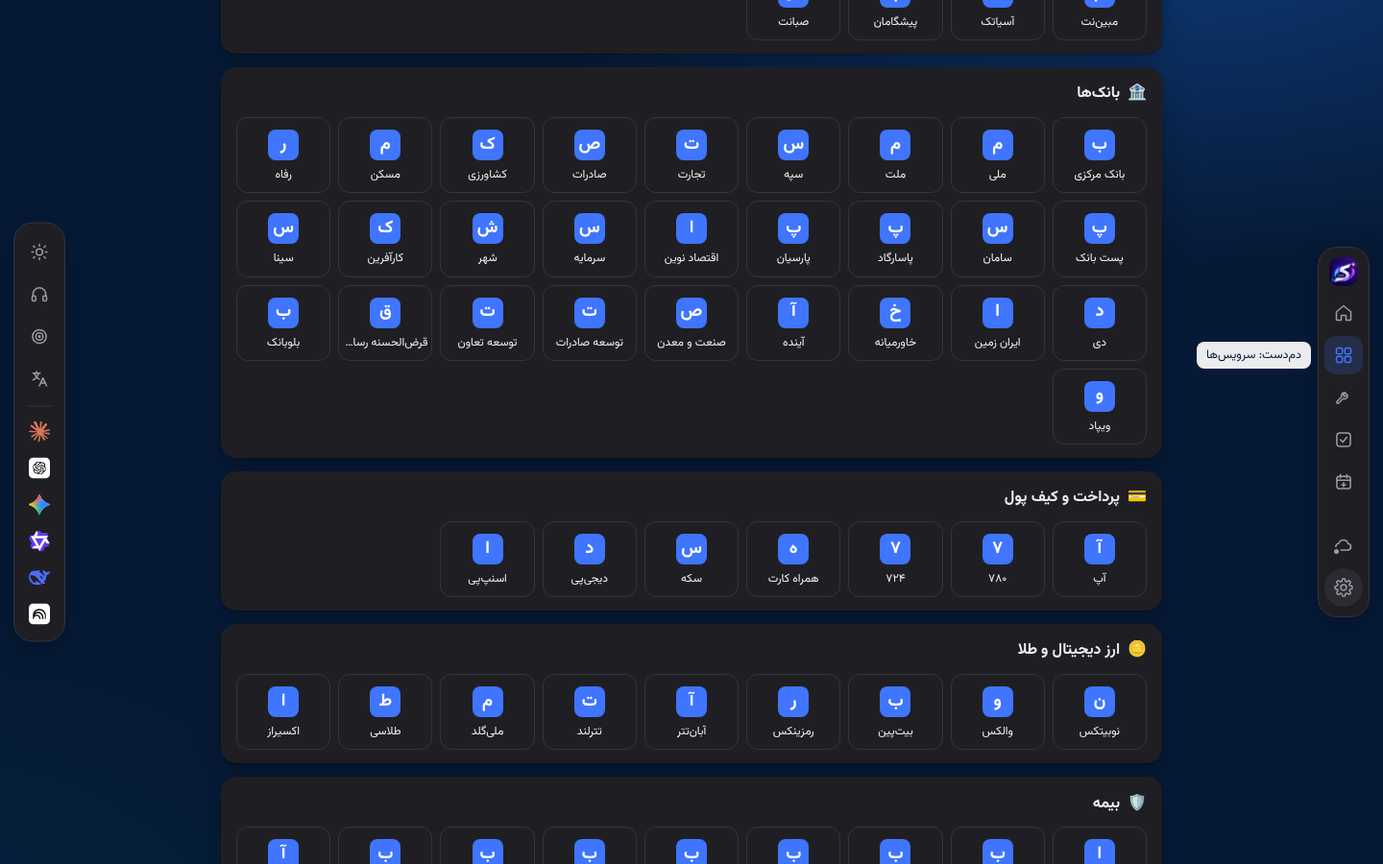
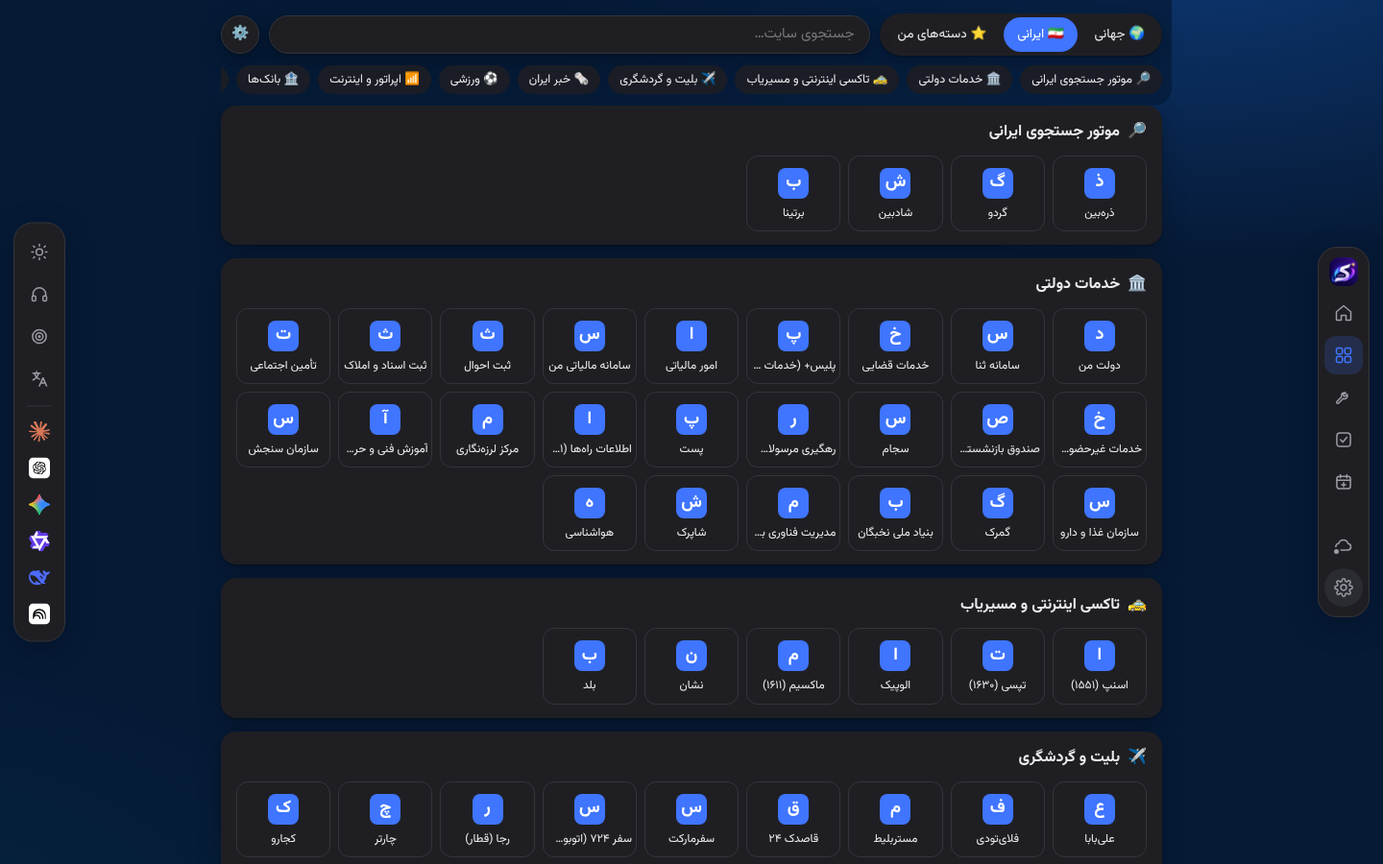
v2.14.1: tidy the Services page with tabs and search
Global / Iranian / My categories tabs, a site search across all of them,
the manage button as an icon, and one scrolling row of category chips in
a sticky, blurred header.

Claude-Session: https://claude.ai/code/session_01DpxMfDwJZ8eqR5twdjN4Bo

diff --git a/js/i18n.js b/js/i18n.js
@@ -4,6 +4,7 @@
 	"use strict";
 	const D = {};
 	D.fa = {
+		svcWorld: "جهانی", svcIran: "ایرانی", svcMine: "دستههای من", svcSearch: "جستجوی سایت…", svcNoMatch: "سایتی پیدا نشد.", svcMineEmpty: "هنوز دستهای نساختهاید. یک دسته بسازید و سایتهای دلخواهتان را در آن بگذارید.",
 		svcManage: "مدیریت دستهها", svcManageHint: "دستههایی را که لازم ندارید خاموش کنید یا دستهی خودتان را بسازید و سایتهای دلخواهتان را در آن بگذارید.", svcNew: "دستهی جدید", svcNewName: "نام دسته، مثلاً سایتهای کاری", svcCats: "دستهها", svcHide: "خاموش کردن این دسته", svcHidden: "دستهی «{name}» خاموش شد. از ⚙ مدیریت دستهها روشنش کنید.", svcDeleted: "دستهی «{name}» حذف شد.", svcAddSite: "افزودن سایت", svcSiteName: "نام سایت", svcBadUrl: "نشانی سایت درست نیست.", svcEmpty: "هنوز سایتی اضافه نشده. با «افزودن سایت» شروع کنید.", salatRemind: "یادآور نماز", salatRemindHint: "وقتی وقت نماز باز است، کارتی کنار صفحه نشان میدهد چقدر تا پایان وقت مانده. شهر را در باکس آبوهوا انتخاب کنید.", salatFajr: "صبح", salatAsr: "ظهر و عصر", salatIsha: "مغرب و عشا", salatWhen: "کی نشان بده", salatAll: "از اول وقت", salat60: "یک ساعت مانده به پایان", salat30: "۳۰ دقیقه مانده به پایان", salat15: "۱۵ دقیقه مانده به پایان", salatNote: "پایان وقت: صبح تا طلوع آفتاب، ظهر و عصر تا غروب، مغرب و عشا تا نیمهشب شرعی. اوقات با روش مؤسسهی ژئوفیزیک دانشگاه تهران حساب میشود.", salatFajrT: "نماز صبح", salatAsrT: "نماز ظهر و عصر", salatIshaT: "نماز مغرب و عشا", salatLeft: "تا پایان وقت:", salatEnds: "{what} ساعت {at}", salatNeedCity: "برای یادآور نماز، اول شهرتان را در باکس آبوهوا وارد کنید.",
 		boxHide: "خاموش کردن این باکس", boxHidden: "«{name}» خاموش شد. از 🧩 باکسها و قابلیتها دوباره روشنش کنید.", manageTitle: "باکسها و قابلیتها", manageHint: "هر چیزی را که لازم ندارید خاموش کنید و هر وقت خواستید دوباره روشن کنید. اطلاعاتتان پاک نمیشود.", manageBoxes: "باکسها", manageRail: "دکمههای نوار کناری", manageFeatures: "قابلیتهای دیگر", manageAllOn: "روشن کردن همه", manageAi: "میانبرهای هوش مصنوعی", boxAlphaNoWall: "این تنظیم وقتی دیده میشود که عکس یا ویدئوی پسزمینه گذاشته باشید.", tourBoxT: "روشن و خاموش کردن باکسها", tourBox: "ماوس را روی هر باکس ببرید و ✕ گوشهاش را بزنید تا خاموش شود. برای روشن کردن دوباره، دکمهی 🧩 «باکسها و قابلیتها» بالای صفحهی ابزارها یا تنظیمات › عمومی را باز کنید. دکمههای نوار کناری و یادآورها را هم همانجا روشن و خاموش کنید.",
 		wGoals: "اهداف بلندمدت", goalTitlePh: "هدف، مثلاً خواندن کتاب", goalTarget: "مقدار (مثلاً ۱۲)", goalUnit: "واحد (کتاب، کیلومتر…)", goalBy: "تا تاریخ", goalReached: "🎉 به هدف رسیدید!", goalOver: "زمان تمام شد؛ {n} مانده بود.", goalPerDay: "روزی {n} لازم است.", goalPerWeek: "هفتهای {n} لازم است.", goalOnTrack: "✅ با همین سرعت به {n} میرسید.", goalBehind: "⚠ با این سرعت به {n} میرسید.", goalAdd: "مقدار پیشرفت", goalDeleted: "هدف حذف شد", goalToday: "امروز", goalUntil: "تا {d}", goalEmpty: "هنوز هدفی نگذاشتهاید. مثلاً «۱۲ کتاب امسال» یا «۵۰۰ کیلومتر دویدن».", goalBadDate: "تاریخ پایان باید بعد از امروز باشد.", wJournal: "دفتر شکرگزاری", jReview: "مرور ماه", jPrompt: "امروز برای چه سه چیزی شکرگزارید؟", jLine1: "۱. …", jLine2: "۲. …", jLine3: "۳. …", jSavedToday: "امروز نوشته شد ✓", jStreak: "🔥 {n} روز پشتسرهم", jSaved: "ذخیره شد 🙏", jMonthCount: "{n} روز نوشتهاید، {lines} مورد خوب.", jEmpty: "این ماه چیزی ننوشتهاید.", jNudgeTitle: "سه چیز خوب امروز؟", jWrite: "نوشتن", wWorldClock: "ساعت جهانی", wcPh: "شهر یا منطقهی زمانی، مثلاً Tokyo", wcSame: "همزمان با شما", wcHours: "ساعت", wcTomorrow: "فردا", wcYesterday: "دیروز", wcNotFound: "این شهر پیدا نشد. نام انگلیسی شهر را امتحان کنید.", wcHave: "این شهر از قبل هست.", wFootball: "فوتبال", fbPh: "نام تیم، مثلاً Persepolis", fbHint: "نتیجهی آخرین بازیها و بازیهای بعدی، از TheSportsDB. نتیجهی زنده نیست.", fbEmpty: "تیمهای محبوبتان را اضافه کنید:", fbNext: "بازی بعدی", fbLast: "بازیهای اخیر", fbNone: "فعلاً اطلاعاتی نیست.", fbNotFound: "تیمی پیدا نشد. نام انگلیسی تیم را بنویسید.", wTrip: "شمارش معکوس", tripEdit: "شمارش معکوس", tripTitle: "برای چه؟", tripTitlePh: "مثلاً سفر ایران، پایان ترم", tripDate: "تاریخ", tripPhoto: "عکس (اختیاری)", tripPhotoRm: "حذف عکس", tripHint: "عکس فقط روی همین دستگاه میماند.", tripAddCta: "شمارش معکوس برای سفر، پایان ترم، پایان سال و …", tripToday: "امروز است! 🎉", tripDay: "روز", tripDays: "روز", tripTo: "تا {title}", tripPhotoOk: "عکس انتخاب شد", tripDeleted: "شمارش معکوس حذف شد", tripInDays: "{n} روز دیگر", cdYearEndFa: "پایان سال", cdSeasonEnd: "پایان این فصل", cdSummerEnd: "پایان تابستان", cdMonthEnd: "پایان ماه", cdYearEndEn: "پایان سال میلادی", cdWeekEnd: "آخر هفته", cdTermEnd: "پایان ترم", cdTrip: "سفر", trTitle: "مترجم سریع", trSwap: "جابهجا کردن زبانها", trPh: "متن را بنویسید یا بچسبانید…", trKeyHint: "میانبر: Alt+T یا L", trOpenGoogle: "Google Translate", trGo: "ترجمه", trAuto: "تشخیص خودکار", trFail: "ترجمه انجام نشد. اینترنت را بررسی کنید.", kbTranslate: "مترجم سریع", shTitle: "تقویم خانوادگی", shShort: "اشتراک", shIntro: "تولدها و رویدادها را با خانواده یا همخانهها به اشتراک بگذارید: یک کد یا فایل بسازید و برایشان بفرستید. آنها در کامیار خودشان واردش میکنند.", shSend: "فرستادن", shAll: "انتخاب همه / هیچ", shCopyCode: "کپی کد", shSaveFile: "ذخیرهی فایل", shReceive: "دریافت", shCodePh: "کدی را که برایتان فرستادهاند اینجا بچسبانید", shImport: "افزودن به تقویم من", shOpen: "باز کردن", shNothing: "هنوز تولد یا رویدادی ندارید.", shPickSome: "چند مورد را انتخاب کنید.", shCopied: "کد {n} مورد کپی شد. آن را در پیامرسان بفرستید.", shImported: "{n} مورد اضافه شد.", shSkipped: "{n} مورد تکراری بود.", shFrom: "از طرف {name}", shBad: "این کد یا فایل معتبر نیست.", seasonal: "پوستهی مناسبتی", seasonalHint: "در نوروز، یلدا، چهارشنبهسوری، محرم و کریسمس ظاهر صفحه خودش کمی عوض میشود.", seTasua: "تاسوعای حسینی", seAshura: "عاشورای حسینی", seMuharram: "ماه محرم", seNowruzSoon: "نوروز در راه است", seSizdah: "سیزدهبدر", seNowruz: "نوروزتان پیروز", seYalda: "شب یلدا مبارک", seSuri: "چهارشنبهسوری", seXmas: "کریسمس مبارک", seNewYear: "سال نو میلادی مبارک", smartBm: "میانبرهای هوشمند", smartBmHint: "میانبرهایی که در این ساعت از روز بیشتر باز میکنید جلوتر میآیند (صبح ایمیل، شب یوتیوب…). برای چیدن دستی خاموشش کنید.", aqTitle: "کیفیت هوا", aqGood: "پاک", aqModerate: "قابل قبول", aqSensitive: "ناسالم برای گروههای حساس", aqUnhealthy: "ناسالم", aqVeryUnhealthy: "بسیار ناسالم", aqHazardous: "خطرناک", aqAdvice: "فعالیت بیرون را کم کنید", aqWarn: "⚠ هوای {city} امروز {level} است (AQI {n}).",
@@ -51,6 +52,7 @@
 		h_newyear: "سال نو میلادی", h_christmas: "کریسمس"
 	};
 	D.en = {
+		svcWorld: "Global", svcIran: "Iranian", svcMine: "My categories", svcSearch: "Search sites…", svcNoMatch: "No sites found.", svcMineEmpty: "You haven't made a category yet. Make one and put your favourite sites in it.",
 		svcManage: "Manage categories", svcManageHint: "Turn off categories you don't need, or make your own and put your favourite sites in it.", svcNew: "New category", svcNewName: "Category name, e.g. Work sites", svcCats: "Categories", svcHide: "Hide this category", svcHidden: "“{name}” is hidden. Turn it back on from ⚙ Manage categories.", svcDeleted: "“{name}” was deleted.", svcAddSite: "Add a site", svcSiteName: "Site name", svcBadUrl: "That address doesn't look right.", svcEmpty: "No sites yet. Start with “Add a site”.", salatRemind: "Prayer reminder", salatRemindHint: "While a prayer time is open, a card at the page edge shows how long is left. Pick your city in the weather box.", salatFajr: "Morning (Fajr)", salatAsr: "Noon & afternoon", salatIsha: "Evening & night", salatWhen: "Show it", salatAll: "From the start", salat60: "1 hour before the end", salat30: "30 minutes before the end", salat15: "15 minutes before the end", salatNote: "Ends: morning at sunrise, noon & afternoon at sunset, evening & night at the religious midnight. Times use the University of Tehran Geophysics method.", salatFajrT: "Morning prayer", salatAsrT: "Noon & afternoon prayer", salatIshaT: "Evening & night prayer", salatLeft: "Time left:", salatEnds: "{what} at {at}", salatNeedCity: "For the prayer reminder, first enter your city in the weather box.",
 		boxHide: "Hide this box", boxHidden: "“{name}” is hidden. Turn it back on from 🧩 Boxes & features.", manageTitle: "Boxes & features", manageHint: "Turn off anything you don't need and turn it back on whenever you like. Nothing is deleted.", manageBoxes: "Boxes", manageRail: "Side bar buttons", manageFeatures: "Other features", manageAllOn: "Turn everything on", manageAi: "AI shortcuts", boxAlphaNoWall: "You'll see the effect once a background picture or video is set.", tourBoxT: "Hide and show boxes", tourBox: "Point at any box and click the ✕ in its corner to hide it. To bring it back, open 🧩 Boxes & features at the top of the Tools page or in Settings › General. Side bar buttons and reminders are switched on and off there too.",
 		wGoals: "Long-term goals", goalTitlePh: "Goal, e.g. Read books", goalTarget: "Amount (e.g. 12)", goalUnit: "Unit (books, km…)", goalBy: "By", goalReached: "🎉 Goal reached!", goalOver: "Time's up; {n} was left.", goalPerDay: "You need {n} a day.", goalPerWeek: "You need {n} a week.", goalOnTrack: "✅ At this pace you'll reach {n}.", goalBehind: "⚠ At this pace you'll reach {n}.", goalAdd: "Progress amount", goalDeleted: "Goal deleted", goalToday: "Today", goalUntil: "until {d}", goalEmpty: "No goals yet. Try \"12 books this year\" or \"500 km running\".", goalBadDate: "The end date must be after today.", wJournal: "Gratitude journal", jReview: "Month review", jPrompt: "What are three things you're grateful for today?", jLine1: "1. …", jLine2: "2. …", jLine3: "3. …", jSavedToday: "Written today ✓", jStreak: "🔥 {n} days in a row", jSaved: "Saved 🙏", jMonthCount: "You wrote on {n} days, {lines} good things.", jEmpty: "Nothing written this month.", jNudgeTitle: "Three good things today?", jWrite: "Write", wWorldClock: "World clock", wcPh: "City or time zone, e.g. Tokyo", wcSame: "Same time as you", wcHours: "h", wcTomorrow: "tomorrow", wcYesterday: "yesterday", wcNotFound: "City not found. Try its English name.", wcHave: "That city is already there.", wFootball: "Football", fbPh: "Team name, e.g. Real Madrid", fbHint: "Latest results and upcoming matches from TheSportsDB. Not live scores.", fbEmpty: "Add your favourite teams:", fbNext: "Next match", fbLast: "Recent matches", fbNone: "No information right now.", fbNotFound: "No team found. Try the English name.", wTrip: "Countdown", tripEdit: "Countdown", tripTitle: "Counting down to", tripTitlePh: "e.g. Trip to Iran, end of term", tripDate: "Date", tripPhoto: "Photo (optional)", tripPhotoRm: "Remove photo", tripHint: "The photo stays on this device only.", tripAddCta: "Count down to a trip, the end of term, the end of the year…", tripToday: "It's today! 🎉", tripDay: "day", tripDays: "days", tripTo: "to {title}", tripPhotoOk: "Photo chosen", tripDeleted: "Countdown deleted", tripInDays: "in {n} days", cdYearEndFa: "End of the Persian year", cdSeasonEnd: "End of this season", cdSummerEnd: "End of summer", cdMonthEnd: "End of the month", cdYearEndEn: "End of the year", cdWeekEnd: "Weekend", cdTermEnd: "End of term", cdTrip: "Trip", trTitle: "Quick translator", trSwap: "Swap languages", trPh: "Type or paste text…", trKeyHint: "Shortcut: Alt+T or L", trOpenGoogle: "Google Translate", trGo: "Translate", trAuto: "Detect language", trFail: "Couldn't translate. Is the internet working?", kbTranslate: "Quick translator", shTitle: "Family calendar", shShort: "Share", shIntro: "Share birthdays and events with family or housemates: make a code or a file and send it. They add it in their own Kamyar.", shSend: "Send", shAll: "Select all / none", shCopyCode: "Copy code", shSaveFile: "Save file", shReceive: "Receive", shCodePh: "Paste the code you were sent here", shImport: "Add to my calendar", shOpen: "Open", shNothing: "You have no birthdays or events yet.", shPickSome: "Pick a few items.", shCopied: "Code for {n} items copied. Send it in any messenger.", shImported: "{n} items added.", shSkipped: "{n} were already there.", shFrom: "from {name}", shBad: "That code or file isn't valid.", seasonal: "Occasion looks", seasonalHint: "The page changes a little by itself for Nowruz, Yalda, Chaharshanbe Suri, Muharram and Christmas.", seTasua: "Tasua", seAshura: "Ashura", seMuharram: "Month of Muharram", seNowruzSoon: "Nowruz is coming", seSizdah: "Sizdah Bedar", seNowruz: "Happy Nowruz", seYalda: "Happy Yalda night", seSuri: "Chaharshanbe Suri", seXmas: "Merry Christmas", seNewYear: "Happy New Year", smartBm: "Smart shortcuts", smartBmHint: "Shortcuts you open most at this time of day move to the front (email in the morning, YouTube at night…). Turn off to arrange by hand.", aqTitle: "Air quality", aqGood: "Good", aqModerate: "Moderate", aqSensitive: "Unhealthy for sensitive groups", aqUnhealthy: "Unhealthy", aqVeryUnhealthy: "Very unhealthy", aqHazardous: "Hazardous", aqAdvice: "limit time outdoors", aqWarn: "⚠ Air in {city} is {level} today (AQI {n}).",
@@ -98,6 +100,7 @@
 		h_newyear: "New Year's Day", h_christmas: "Christmas"
 	};
 	D.fr = {
+		svcWorld: "International", svcIran: "Iraniens", svcMine: "Mes catégories", svcSearch: "Rechercher un site…", svcNoMatch: "Aucun site trouvé.", svcMineEmpty: "Vous n'avez pas encore de catégorie. Créez-en une pour vos sites préférés.",
 		svcManage: "Gérer les catégories", svcManageHint: "Désactivez les catégories inutiles ou créez la vôtre avec vos sites préférés.", svcNew: "Nouvelle catégorie", svcNewName: "Nom, ex. Sites de travail", svcCats: "Catégories", svcHide: "Masquer cette catégorie", svcHidden: "« {name} » est masquée. Réactivez-la via ⚙ Gérer les catégories.", svcDeleted: "« {name} » a été supprimée.", svcAddSite: "Ajouter un site", svcSiteName: "Nom du site", svcBadUrl: "Cette adresse semble incorrecte.", svcEmpty: "Aucun site pour l'instant. Commencez par « Ajouter un site ».", salatRemind: "Rappel de prière", salatRemindHint: "Pendant l'heure d'une prière, une carte au bord de la page indique le temps restant. Choisissez votre ville dans le bloc météo.", salatFajr: "Matin (Fajr)", salatAsr: "Midi et après-midi", salatIsha: "Soir et nuit", salatWhen: "Afficher", salatAll: "Dès le début", salat60: "1 h avant la fin", salat30: "30 min avant la fin", salat15: "15 min avant la fin", salatNote: "Fin : matin au lever du soleil, midi et après-midi au coucher, soir et nuit à minuit religieux. Méthode de l'Institut de géophysique de Téhéran.", salatFajrT: "Prière du matin", salatAsrT: "Prière de midi et de l'après-midi", salatIshaT: "Prière du soir et de la nuit", salatLeft: "Temps restant :", salatEnds: "{what} à {at}", salatNeedCity: "Pour le rappel de prière, indiquez d'abord votre ville dans le bloc météo.",
 		boxHide: "Masquer ce bloc", boxHidden: "« {name} » est masqué. Réactivez-le depuis 🧩 Blocs et fonctions.", manageTitle: "Blocs et fonctions", manageHint: "Désactivez ce dont vous n'avez pas besoin et réactivez-le quand vous voulez. Rien n'est effacé.", manageBoxes: "Blocs", manageRail: "Boutons de la barre latérale", manageFeatures: "Autres fonctions", manageAllOn: "Tout activer", manageAi: "Raccourcis IA", boxAlphaNoWall: "L'effet se voit une fois une image ou une vidéo de fond choisie.", tourBoxT: "Masquer et afficher les blocs", tourBox: "Survolez un bloc et cliquez sur le ✕ dans son coin pour le masquer. Pour le réafficher, ouvrez 🧩 Blocs et fonctions en haut de la page Outils ou dans Réglages › Général. Les boutons de la barre latérale et les rappels s'y règlent aussi.",
 		wGoals: "Objectifs à long terme", goalTitlePh: "Objectif, ex. Lire des livres", goalTarget: "Quantité (ex. 12)", goalUnit: "Unité (livres, km…)", goalBy: "Avant le", goalReached: "🎉 Objectif atteint !", goalOver: "Temps écoulé ; il restait {n}.", goalPerDay: "Il faut {n} par jour.", goalPerWeek: "Il faut {n} par semaine.", goalOnTrack: "✅ À ce rythme vous atteindrez {n}.", goalBehind: "⚠ À ce rythme vous atteindrez {n}.", goalAdd: "Progression", goalDeleted: "Objectif supprimé", goalToday: "Aujourd'hui", goalUntil: "jusqu'au {d}", goalEmpty: "Pas encore d'objectif. Essayez « 12 livres cette année » ou « 500 km de course ».", goalBadDate: "La date de fin doit être après aujourd'hui.", wJournal: "Journal de gratitude", jReview: "Bilan du mois", jPrompt: "Trois choses pour lesquelles vous êtes reconnaissant aujourd'hui ?", jLine1: "1. …", jLine2: "2. …", jLine3: "3. …", jSavedToday: "Écrit aujourd'hui ✓", jStreak: "🔥 {n} jours d'affilée", jSaved: "Enregistré 🙏", jMonthCount: "Vous avez écrit {n} jours, {lines} bonnes choses.", jEmpty: "Rien d'écrit ce mois-ci.", jNudgeTitle: "Trois bonnes choses aujourd'hui ?", jWrite: "Écrire", wWorldClock: "Horloge mondiale", wcPh: "Ville ou fuseau, ex. Tokyo", wcSame: "Même heure que vous", wcHours: "h", wcTomorrow: "demain", wcYesterday: "hier", wcNotFound: "Ville introuvable. Essayez le nom anglais.", wcHave: "Cette ville est déjà là.", wFootball: "Football", fbPh: "Nom de l'équipe, ex. Real Madrid", fbHint: "Derniers résultats et prochains matchs via TheSportsDB. Pas de score en direct.", fbEmpty: "Ajoutez vos équipes préférées :", fbNext: "Prochain match", fbLast: "Matchs récents", fbNone: "Pas d'information pour l'instant.", fbNotFound: "Aucune équipe trouvée. Essayez le nom anglais.", wTrip: "Compte à rebours", tripEdit: "Compte à rebours", tripTitle: "Jusqu'à", tripTitlePh: "ex. Voyage en Iran, fin du semestre", tripDate: "Date", tripPhoto: "Photo (facultatif)", tripPhotoRm: "Retirer la photo", tripHint: "La photo reste sur cet appareil.", tripAddCta: "Compte à rebours : voyage, fin du semestre, fin d'année…", tripToday: "C'est aujourd'hui ! 🎉", tripDay: "jour", tripDays: "jours", tripTo: "avant {title}", tripPhotoOk: "Photo choisie", tripDeleted: "Compte à rebours supprimé", tripInDays: "dans {n} jours", cdYearEndFa: "Fin de l'année persane", cdSeasonEnd: "Fin de la saison", cdSummerEnd: "Fin de l'été", cdMonthEnd: "Fin du mois", cdYearEndEn: "Fin de l'année", cdWeekEnd: "Week-end", cdTermEnd: "Fin du semestre", cdTrip: "Voyage", trTitle: "Traducteur rapide", trSwap: "Inverser les langues", trPh: "Tapez ou collez un texte…", trKeyHint: "Raccourci : Alt+T ou L", trOpenGoogle: "Google Traduction", trGo: "Traduire", trAuto: "Détecter la langue", trFail: "Traduction impossible. Internet fonctionne-t-il ?", kbTranslate: "Traducteur rapide", shTitle: "Calendrier familial", shShort: "Partager", shIntro: "Partagez anniversaires et événements avec la famille ou les colocataires : créez un code ou un fichier et envoyez-le. Ils l'ajoutent dans leur Kamyar.", shSend: "Envoyer", shAll: "Tout / rien", shCopyCode: "Copier le code", shSaveFile: "Enregistrer le fichier", shReceive: "Recevoir", shCodePh: "Collez ici le code reçu", shImport: "Ajouter à mon calendrier", shOpen: "Ouvrir", shNothing: "Pas encore d'anniversaire ni d'événement.", shPickSome: "Choisissez quelques éléments.", shCopied: "Code de {n} éléments copié. Envoyez-le par messagerie.", shImported: "{n} éléments ajoutés.", shSkipped: "{n} existaient déjà.", shFrom: "de {name}", shBad: "Ce code ou fichier n'est pas valide.", seasonal: "Décor des fêtes", seasonalHint: "La page change un peu d'elle-même pour Norouz, Yalda, Tchaharchanbé-Souri, Mouharram et Noël.", seTasua: "Tassoua", seAshura: "Achoura", seMuharram: "Mois de Mouharram", seNowruzSoon: "Norouz approche", seSizdah: "Sizdah Bedar", seNowruz: "Joyeux Norouz", seYalda: "Bonne nuit de Yalda", seSuri: "Tchaharchanbé-Souri", seXmas: "Joyeux Noël", seNewYear: "Bonne année", smartBm: "Raccourcis intelligents", smartBmHint: "Les raccourcis que vous ouvrez le plus à cette heure passent devant (e-mail le matin, YouTube le soir…). Désactivez pour ranger à la main.", aqTitle: "Qualité de l'air", aqGood: "Bonne", aqModerate: "Moyenne", aqSensitive: "Mauvaise pour les personnes sensibles", aqUnhealthy: "Mauvaise", aqVeryUnhealthy: "Très mauvaise", aqHazardous: "Dangereuse", aqAdvice: "limitez le temps dehors", aqWarn: "⚠ L'air à {city} est {level} aujourd'hui (AQI {n}).",
@@ -145,6 +148,7 @@
 		h_newyear: "Jour de l'An", h_christmas: "Noël"
 	};
 	D.de = {
+		svcWorld: "International", svcIran: "Iranisch", svcMine: "Meine Kategorien", svcSearch: "Seiten suchen…", svcNoMatch: "Keine Seiten gefunden.", svcMineEmpty: "Du hast noch keine Kategorie. Lege eine für deine Lieblingsseiten an.",
 		svcManage: "Kategorien verwalten", svcManageHint: "Schalte unnötige Kategorien aus oder lege eine eigene mit deinen Lieblingsseiten an.", svcNew: "Neue Kategorie", svcNewName: "Name, z. B. Arbeitsseiten", svcCats: "Kategorien", svcHide: "Kategorie ausblenden", svcHidden: "„{name}“ ist ausgeblendet. Über ⚙ Kategorien verwalten wieder einschalten.", svcDeleted: "„{name}“ wurde gelöscht.", svcAddSite: "Seite hinzufügen", svcSiteName: "Name der Seite", svcBadUrl: "Diese Adresse sieht nicht richtig aus.", svcEmpty: "Noch keine Seiten. Beginne mit „Seite hinzufügen“.", salatRemind: "Gebetserinnerung", salatRemindHint: "Solange eine Gebetszeit läuft, zeigt eine Karte am Rand, wie viel Zeit bleibt. Wähle deine Stadt in der Wetterbox.", salatFajr: "Morgen (Fadschr)", salatAsr: "Mittag & Nachmittag", salatIsha: "Abend & Nacht", salatWhen: "Anzeigen", salatAll: "Ab Beginn", salat60: "1 Std. vor Ende", salat30: "30 Min. vor Ende", salat15: "15 Min. vor Ende", salatNote: "Ende: Morgen bei Sonnenaufgang, Mittag & Nachmittag bei Sonnenuntergang, Abend & Nacht um religiöse Mitternacht. Methode des Geophysik-Instituts Teheran.", salatFajrT: "Morgengebet", salatAsrT: "Mittags- & Nachmittagsgebet", salatIshaT: "Abend- & Nachtgebet", salatLeft: "Verbleibend:", salatEnds: "{what} um {at}", salatNeedCity: "Für die Gebetserinnerung zuerst deine Stadt in der Wetterbox eingeben.",
 		boxHide: "Diese Box ausblenden", boxHidden: "„{name}“ ist ausgeblendet. Über 🧩 Boxen & Funktionen wieder einschalten.", manageTitle: "Boxen & Funktionen", manageHint: "Schalte aus, was du nicht brauchst, und jederzeit wieder ein. Es wird nichts gelöscht.", manageBoxes: "Boxen", manageRail: "Tasten der Seitenleiste", manageFeatures: "Weitere Funktionen", manageAllOn: "Alles einschalten", manageAi: "KI-Verknüpfungen", boxAlphaNoWall: "Die Wirkung siehst du, sobald ein Hintergrundbild oder -video gesetzt ist.", tourBoxT: "Boxen aus- und einblenden", tourBox: "Zeige auf eine Box und klicke auf das ✕ in der Ecke, um sie auszublenden. Zum Zurückholen öffne 🧩 Boxen & Funktionen oben auf der Werkzeugseite oder unter Einstellungen › Allgemein. Dort schaltest du auch Seitenleisten-Tasten und Erinnerungen.",
 		wGoals: "Langfristige Ziele", goalTitlePh: "Ziel, z. B. Bücher lesen", goalTarget: "Menge (z. B. 12)", goalUnit: "Einheit (Bücher, km…)", goalBy: "Bis", goalReached: "🎉 Ziel erreicht!", goalOver: "Zeit abgelaufen; {n} fehlten noch.", goalPerDay: "Nötig: {n} pro Tag.", goalPerWeek: "Nötig: {n} pro Woche.", goalOnTrack: "✅ In diesem Tempo erreichst du {n}.", goalBehind: "⚠ In diesem Tempo erreichst du {n}.", goalAdd: "Fortschritt", goalDeleted: "Ziel gelöscht", goalToday: "Heute", goalUntil: "bis {d}", goalEmpty: "Noch keine Ziele. Zum Beispiel „12 Bücher dieses Jahr“ oder „500 km laufen“.", goalBadDate: "Das Enddatum muss nach heute liegen.", wJournal: "Dankbarkeitstagebuch", jReview: "Monatsrückblick", jPrompt: "Für welche drei Dinge bist du heute dankbar?", jLine1: "1. …", jLine2: "2. …", jLine3: "3. …", jSavedToday: "Heute geschrieben ✓", jStreak: "🔥 {n} Tage in Folge", jSaved: "Gespeichert 🙏", jMonthCount: "An {n} Tagen geschrieben, {lines} gute Dinge.", jEmpty: "Diesen Monat nichts geschrieben.", jNudgeTitle: "Drei gute Dinge heute?", jWrite: "Schreiben", wWorldClock: "Weltuhr", wcPh: "Stadt oder Zeitzone, z. B. Tokyo", wcSame: "Gleiche Zeit wie du", wcHours: "Std.", wcTomorrow: "morgen", wcYesterday: "gestern", wcNotFound: "Stadt nicht gefunden. Versuche den englischen Namen.", wcHave: "Diese Stadt ist schon da.", wFootball: "Fußball", fbPh: "Teamname, z. B. Real Madrid", fbHint: "Letzte Ergebnisse und nächste Spiele von TheSportsDB. Keine Live-Ergebnisse.", fbEmpty: "Füge deine Lieblingsteams hinzu:", fbNext: "Nächstes Spiel", fbLast: "Letzte Spiele", fbNone: "Gerade keine Informationen.", fbNotFound: "Kein Team gefunden. Versuche den englischen Namen.", wTrip: "Countdown", tripEdit: "Countdown", tripTitle: "Countdown bis", tripTitlePh: "z. B. Reise in den Iran, Semesterende", tripDate: "Datum", tripPhoto: "Foto (optional)", tripPhotoRm: "Foto entfernen", tripHint: "Das Foto bleibt nur auf diesem Gerät.", tripAddCta: "Countdown für eine Reise, das Semesterende, das Jahresende…", tripToday: "Heute ist es so weit! 🎉", tripDay: "Tag", tripDays: "Tage", tripTo: "bis {title}", tripPhotoOk: "Foto gewählt", tripDeleted: "Countdown gelöscht", tripInDays: "in {n} Tagen", cdYearEndFa: "Ende des persischen Jahres", cdSeasonEnd: "Ende dieser Jahreszeit", cdSummerEnd: "Sommerende", cdMonthEnd: "Monatsende", cdYearEndEn: "Jahresende", cdWeekEnd: "Wochenende", cdTermEnd: "Semesterende", cdTrip: "Reise", trTitle: "Schnellübersetzer", trSwap: "Sprachen tauschen", trPh: "Text eingeben oder einfügen…", trKeyHint: "Kürzel: Alt+T oder L", trOpenGoogle: "Google Übersetzer", trGo: "Übersetzen", trAuto: "Sprache erkennen", trFail: "Übersetzung fehlgeschlagen. Funktioniert das Internet?", kbTranslate: "Schnellübersetzer", shTitle: "Familienkalender", shShort: "Teilen", shIntro: "Teile Geburtstage und Termine mit Familie oder Mitbewohnern: Erstelle einen Code oder eine Datei und schicke sie. Sie fügen sie in ihrem Kamyar hinzu.", shSend: "Senden", shAll: "Alle / keine", shCopyCode: "Code kopieren", shSaveFile: "Datei speichern", shReceive: "Empfangen", shCodePh: "Erhaltenen Code hier einfügen", shImport: "Zu meinem Kalender hinzufügen", shOpen: "Öffnen", shNothing: "Noch keine Geburtstage oder Termine.", shPickSome: "Wähle ein paar Einträge.", shCopied: "Code für {n} Einträge kopiert. Schick ihn per Messenger.", shImported: "{n} Einträge hinzugefügt.", shSkipped: "{n} waren schon da.", shFrom: "von {name}", shBad: "Dieser Code oder diese Datei ist ungültig.", seasonal: "Festtags-Look", seasonalHint: "Zu Nouruz, Yalda, Tschaharschanbe Suri, Muharram und Weihnachten ändert sich die Seite ein wenig von selbst.", seTasua: "Tasua", seAshura: "Aschura", seMuharram: "Monat Muharram", seNowruzSoon: "Nouruz kommt bald", seSizdah: "Sizdah Bedar", seNowruz: "Frohes Nouruz", seYalda: "Schöne Yalda-Nacht", seSuri: "Tschaharschanbe Suri", seXmas: "Frohe Weihnachten", seNewYear: "Frohes neues Jahr", smartBm: "Intelligente Verknüpfungen", smartBmHint: "Verknüpfungen, die du zu dieser Tageszeit am häufigsten öffnest, rücken nach vorn (morgens E-Mail, abends YouTube…). Ausschalten, um selbst zu ordnen.", aqTitle: "Luftqualität", aqGood: "Gut", aqModerate: "Mäßig", aqSensitive: "Ungesund für Empfindliche", aqUnhealthy: "Ungesund", aqVeryUnhealthy: "Sehr ungesund", aqHazardous: "Gefährlich", aqAdvice: "weniger Zeit draußen", aqWarn: "⚠ Die Luft in {city} ist heute {level} (AQI {n}).",

diff --git a/js/services.js b/js/services.js
@@ -99,9 +99,9 @@
 	// Everything as [id, emoji, name, items, isCustom]; custom items are {title, url}.
 	function all() {
 		return [
-			...CATS.map((c) => [c[0], c[1], tr(c[2]), c[3].map(([title, url]) => ({ title: tr(title), url })), false]),
-			...(window.SERVICES_IR || []).map((c) => [c[0], c[1], tr(c[2]), c[3].map(([title, url]) => ({ title: tr(title), url })), false]),
-			...custom().map((c) => [c.id, c.emoji || "📁", c.title, c.items || [], true])
+			...CATS.map((c) => [c[0], c[1], tr(c[2]), c[3].map(([title, url]) => ({ title: tr(title), url })), false, "world"]),
+			...(window.SERVICES_IR || []).map((c) => [c[0], c[1], tr(c[2]), c[3].map(([title, url]) => ({ title: tr(title), url })), false, "iran"]),
+			...custom().map((c) => [c.id, c.emoji || "📁", c.title, c.items || [], true, "mine"])
 		];
 	}
 	const normUrl = (u) => {
@@ -180,10 +180,41 @@
 		$("svcNewName").value = "";
 		$("svcNewEmoji").value = "";
 		$("svcDialog").close();
+		group = "mine";
+		ls("kamyar_svc_group", "mine");
+		drawnKey = null;
+		render();
 		setTimeout(() => { const s = $("apps-" + id); if (s) { s.scrollIntoView({ behavior: "smooth", block: "start" }); s.querySelector(".svc-plus")?.click(); } }, 200);
 	});
 	$("svcAllOn").addEventListener("click", () => { Store.setSetting("svcOff", {}); });
 	$("svcDialog").addEventListener("click", (e) => { if (e.target.closest("[data-close]") || e.target === $("svcDialog")) $("svcDialog").close(); });
+
+	/* ---------- top bar: group tabs (world / Iranian / mine), search, one row of category chips ---------- */
+	const ls = (k, v) => { try { return v === undefined ? localStorage.getItem(k) : localStorage.setItem(k, v); } catch { return null; } };
+	const GROUPS = [["world", "🌍", "svcWorld"], ["iran", "🇮🇷", "svcIran"], ["mine", "⭐", "svcMine"]];
+	let group = ls("kamyar_svc_group") || (I18n.lang === "fa" ? "iran" : "world");
+	let query = "";
+	const fold = (x) => x.toLowerCase().replace(/[يى]/g, "ی").replace(/ك/g, "ک").replace(/\u200c/g, " ");
+
+	function body() {
+		const hidden = off();
+		let cats = all().filter((c) => !hidden[c[0]]);
+		if (query) {
+			const q = fold(query);
+			cats = cats.map((c) => [...c.slice(0, 3), c[3].filter((it) => fold(it.title + " " + it.url).includes(q)), ...c.slice(4)]).filter((c) => c[3].length);
+			$("svcChips").replaceChildren();
+			return cats.length ? cats.map(section) : [el("p", { class: "muted apps-none" }, t("svcNoMatch"))];
+		}
+		cats = cats.filter((c) => c[5] === group);
+		$("svcChips").replaceChildren(...cats.map(([id, emoji, name]) =>
+			el("button", { type: "button", class: "apps-chip", onclick: () => $("apps-" + id).scrollIntoView({ behavior: "smooth", block: "start" }) }, emoji, " ", name)));
+		if (group === "mine" && !cats.length) return [el("div", { class: "card apps-sec apps-empty" }, el("p", {}, t("svcMineEmpty")), el("button", { class: "btn", type: "button", onclick: openManage }, "＋ ", t("svcNew")))];
+		return cats.map(section);
+	}
+	function drawBody() {
+		$("svcBody").replaceChildren(...body());
+		document.querySelectorAll(".svc-tab").forEach((b) => b.classList.toggle("on", !query && b.dataset.g === group));
+	}
 
 	let drawnKey = null;
 	// Built only when the Services page is open: it is the largest page and most new tabs never show it.
@@ -194,15 +225,17 @@
 		drawnKey = key;
 		const view = $("viewApps");
 		const top = view.scrollTop;
-		const hidden = off();
-		const cats = all().filter((c) => !hidden[c[0]]);
-		const chips = el("nav", { class: "apps-chips" },
-			el("button", { type: "button", class: "apps-chip svc-manage", onclick: openManage }, "⚙ ", t("svcManage")),
-			...cats.map(([id, emoji, name]) =>
-				el("button", { type: "button", class: "apps-chip", onclick: () => $("apps-" + id).scrollIntoView({ behavior: "smooth", block: "start" }) }, name, " ", emoji)));
-		view.replaceChildren(chips, el("div", { class: "apps-body" }, ...cats.map(section)));
+		const search = el("input", { type: "search", class: "svc-search", placeholder: t("svcSearch"), value: query, oninput: (e) => { query = e.target.value.trim(); drawBody(); } });
+		const bar = el("div", { class: "apps-top" },
+			el("div", { class: "svc-tabs", role: "tablist" }, ...GROUPS.map(([g, emoji, label]) =>
+				el("button", { type: "button", class: "svc-tab", role: "tab", "data-g": g, onclick: () => { group = g; ls("kamyar_svc_group", g); query = ""; search.value = ""; drawBody(); view.scrollTop = 0; } }, emoji, " ", t(label)))),
+			search,
+			el("button", { type: "button", class: "icon-btn svc-manage", title: t("svcManage"), "aria-label": t("svcManage"), onclick: openManage }, "⚙"));
+		view.replaceChildren(el("div", { class: "apps-head" }, bar, el("nav", { id: "svcChips", class: "apps-chips" })), el("div", { id: "svcBody", class: "apps-body" }));
+		drawBody();
 		view.scrollTop = top;
 	}
+	H.svcGroup = (g) => { group = g; drawBody(); };
 	H.openServicesManage = () => { H.showView?.("apps"); openManage(); };
 
 	H.onRefresh(render);

diff --git a/css/style.css b/css/style.css
@@ -1398,3 +1398,20 @@ html.tour-boxes [data-widget="daily"] > .box-x { animation: boxPulse 1.2s ease-i
 .salat-opts { display: flex; flex-wrap: wrap; gap: 8px 16px; align-items: center; padding: 4px 6px 10px; }
 .dialog .salat-opts label.fld { flex-direction: row; align-items: center; gap: 8px; }
 .salat-opts p { flex-basis: 100%; margin: 0; }
+
+/* Services top: tabs + search + manage, then one scrolling row of chips; stays at the top while scrolling. */
+.apps-head { position: sticky; top: 0; z-index: 3; max-width: 980px; margin: 0 auto; padding: 14px 0 8px; display: flex; flex-direction: column; gap: 8px; }
+.apps-top { display: flex; gap: 10px; align-items: center; }
+.svc-tabs { display: flex; gap: 4px; padding: 4px; border-radius: 999px; background: var(--surface); box-shadow: var(--shadow); flex: none; }
+.svc-tab { border: 0; background: none; color: var(--text); padding: 7px 14px; border-radius: 999px; font-size: 13.5px; cursor: pointer; white-space: nowrap; }
+.svc-tab:hover { background: var(--surface-2); }
+.svc-tab.on { background: var(--accent); color: var(--accent-ink); }
+.svc-search { flex: 1; min-width: 0; height: 40px; border-radius: 999px; border: 1px solid var(--border); background: var(--surface); color: var(--text); padding: 0 16px; box-shadow: var(--shadow); font: inherit; }
+.apps-top .svc-manage { flex: none; width: 40px; height: 40px; border-radius: 50%; background: var(--surface); box-shadow: var(--shadow); }
+.apps-head .apps-chips { flex-wrap: nowrap; overflow-x: auto; padding: 2px 0 4px; margin: 0; max-width: none; position: static; }
+.apps-head .apps-chip { box-shadow: none; padding: 5px 12px; font-size: 12.5px; background: color-mix(in srgb, var(--surface) 85%, transparent); }
+.apps-head .apps-chips:empty { display: none; }
+.apps-empty { text-align: center; padding: 30px; }
+.apps-none { text-align: center; padding: 30px; }
+@media (max-width: 760px) { .apps-top { flex-wrap: wrap; } .svc-search { flex-basis: 100%; order: 3; } }
+.apps-head { background: color-mix(in srgb, var(--bg) 72%, transparent); backdrop-filter: blur(16px); -webkit-backdrop-filter: blur(16px); padding-inline: 10px; margin-inline: auto; border-radius: 0 0 18px 18px; max-width: 1000px; }

diff --git a/tests/e2e.js b/tests/e2e.js
@@ -149,7 +149,15 @@ function i18nParity() {
 	console.log("Services");
 	await page.click('.rail-btn[data-go="apps"]');
 	await page.waitForTimeout(400);
-	check("Iranian categories are listed", (await page.$("#apps-ir-bank")) !== null);
+	await page.click('.svc-tab[data-g="iran"]');
+	await page.waitForTimeout(200);
+	check("Iranian tab lists Iranian categories only", (await page.$("#apps-ir-bank")) !== null && (await page.$("#apps-google")) === null);
+	await page.fill(".svc-search", "digikala");
+	await page.waitForTimeout(200);
+	check("search finds a site across tabs", (await page.textContent("#svcBody")).includes("Digikala"));
+	await page.fill(".svc-search", "");
+	await page.click('.svc-tab[data-g="iran"]');
+	await page.waitForTimeout(200);
 	await page.hover("#apps-ir-sport");
 	await page.click("#apps-ir-sport .svc-hide");
 	await page.waitForTimeout(200);

diff --git a/README.md b/README.md
@@ -6,7 +6,7 @@
 
 <p align="center">
   <img alt="Chrome MV3" src="https://img.shields.io/badge/Chrome-Manifest%20V3-4285F4?logo=googlechrome&logoColor=white" />
-  <img alt="Version" src="https://img.shields.io/badge/version-2.14.0-6c4ff0" />
+  <img alt="Version" src="https://img.shields.io/badge/version-2.14.1-6c4ff0" />
   <img alt="Languages" src="https://img.shields.io/badge/languages-FA%20%7C%20EN%20%7C%20FR%20%7C%20DE-14b8a6" />
   <img alt="No ads" src="https://img.shields.io/badge/ads-none-3db985" />
   <img alt="No tracking" src="https://img.shields.io/badge/tracking-none-3db985" />
@@ -63,7 +63,7 @@
 - **💧👀 یادآور آب و استراحت چشم:** هر چند وقت یک کارت کوچک کنار صفحه (چپ یا راست، به انتخاب شما) میآید که با ✕ بسته میشود: «یک لیوان آب بنوشید» یا «۲۰ ثانیه به دوردست نگاه کنید» با شمارش معکوس. لیوانهای امروز شمرده میشوند. وقتی کامیار باز نیست، اعلان کروم میآید. شبها و وقتی پشت کامپیوتر نیستید چیزی نمیآید.
 - **📁 پوشه داخل پوشه:** پوشهها میتوانند داخل هم باشند، با مسیر بالای پوشه برای برگشتن.
 - **🪟 شفافیت باکسها:** در تنظیمات › پسزمینه، وقتی عکس یا ویدئوی پسزمینه دارید، شفافیت باکسها را تنظیم کنید؛ یک مقدار برای حالت عادی (پیشفرض ۶۰٪) و یکی برای وقتی ماوس روی باکس است (پیشفرض ۸۵٪، پررنگتر).
-- **🇮🇷 سایتهای ایرانی در سرویسها:** نزدیک ۲۷۰ سایت در ۲۴ دسته (دولتی، بانک، بیمه، تاکسی و مسیریاب، خبر، فیلم، پیامرسان، فروشگاه، سلامت، هوش مصنوعی ایرانی و …). هر دسته را میشود خاموش کرد یا دستهی دلخواه ساخت و سایت به آن اضافه کرد.
+- **🇮🇷 سایتهای ایرانی در سرویسها:** نزدیک ۲۷۰ سایت در ۲۴ دسته (دولتی، بانک، بیمه، تاکسی و مسیریاب، خبر، فیلم، پیامرسان، فروشگاه، سلامت، هوش مصنوعی ایرانی و …). صفحه سه زبانه دارد (جهانی، ایرانی، دستههای من) و جستجوی سایت. هر دسته را میشود خاموش کرد یا دستهی دلخواه ساخت و سایت به آن اضافه کرد.
 - **🕌 یادآور نماز:** (پیشفرض خاموش؛ تنظیمات › تقویم و زمان) وقتی وقت نماز صبح، ظهر و عصر یا مغرب و عشا باز است، کارتی کنار صفحه با شمارش معکوس تا پایان وقت.
 - **🧩 باکسها و قابلیتها:** هر باکس را با ✕ گوشهاش خاموش کنید و از دکمهی 🧩 بالای صفحهی ابزارها یا تنظیمات › عمومی دوباره روشن کنید. دکمههای نوار کناری، یادآورها، پوستهی مناسبتی و میانبرهای هوشمند هم همانجا روشن و خاموش میشوند.
 - **🎥 هوش مصنوعی ویدیو:** دستهی تازه در صفحهی سرویسها: Sora، Veo/Flow، Runway، Kling، Luma، Pika، Hailuo و …
@@ -264,7 +264,7 @@ Kamyar is a **personal new-tab page for Google Chrome**. Every new tab shows you
 - **Water and eye-break reminder:** every so often a small card at the edge of the page (left or right, your choice) that closes with ✕: "have a glass of water" or "look far away for 20 seconds" with a countdown. Glasses are counted per day. Without a Kamyar tab open, Chrome shows a notification instead. Nothing comes at night or while you're away.
 - **Folders inside folders**, with a breadcrumb to go back up.
 - **Box opacity:** in Settings › Background, with a background picture or video, choose how see-through the boxes are: one value normally (60% by default) and one while the pointer is on a box (85%, more solid).
-- **Iranian sites in Services:** About 270 sites in 24 categories (government, banks, insurance, taxis and maps, news, streaming, messengers, shops, health, Iranian AI…). Turn any category off, or make your own and add sites to it.
+- **Iranian sites in Services:** About 270 sites in 24 categories (government, banks, insurance, taxis and maps, news, streaming, messengers, shops, health, Iranian AI…). Three tabs (Global, Iranian, My categories) and a site search keep it tidy. Turn any category off, or make your own and add sites to it.
 - **Prayer reminder:** (off by default; Settings › Calendar) while the morning, noon & afternoon, or evening & night prayer time is open, a card counts down the time left.
 - **Boxes & features:** hide any box with the ✕ in its corner and bring it back from 🧩 at the top of the Tools page or in Settings › General. Side bar buttons, reminders, occasion looks and smart shortcuts are switched there too.
 - **AI video:** a new services category with Sora, Veo/Flow, Runway, Kling, Luma, Pika, Hailuo and more.

diff --git a/.github/release-notes.md b/.github/release-notes.md
@@ -15,6 +15,7 @@ The first public release of Kamyar, a personal new-tab page for Chrome with no a
 
 ### تازههای این نسخه · New in this version
 - 🇮🇷 نزدیک ۲۷۰ سایت ایرانی در ۲۴ دسته در صفحهی سرویسها · About 270 Iranian sites in 24 Services categories
+- 🗂 سرویسها با سه زبانهی جهانی، ایرانی و دستههای من، و جستجوی سایت · Services tabs (Global, Iranian, My categories) and site search
 - 🗂 خاموش کردن دستهها و ساختن دستهی دلخواه · Turn categories off, or make your own
 - 🕌 یادآور نماز با شمارش معکوس تا پایان وقت (پیشفرض خاموش) · Prayer reminder with a countdown (off by default)
 - 🪟 شفافیت پیشفرض باکسها کمتر شد (۶۰٪ و ۸۵٪) · Lower default box opacity (60% / 85%)
